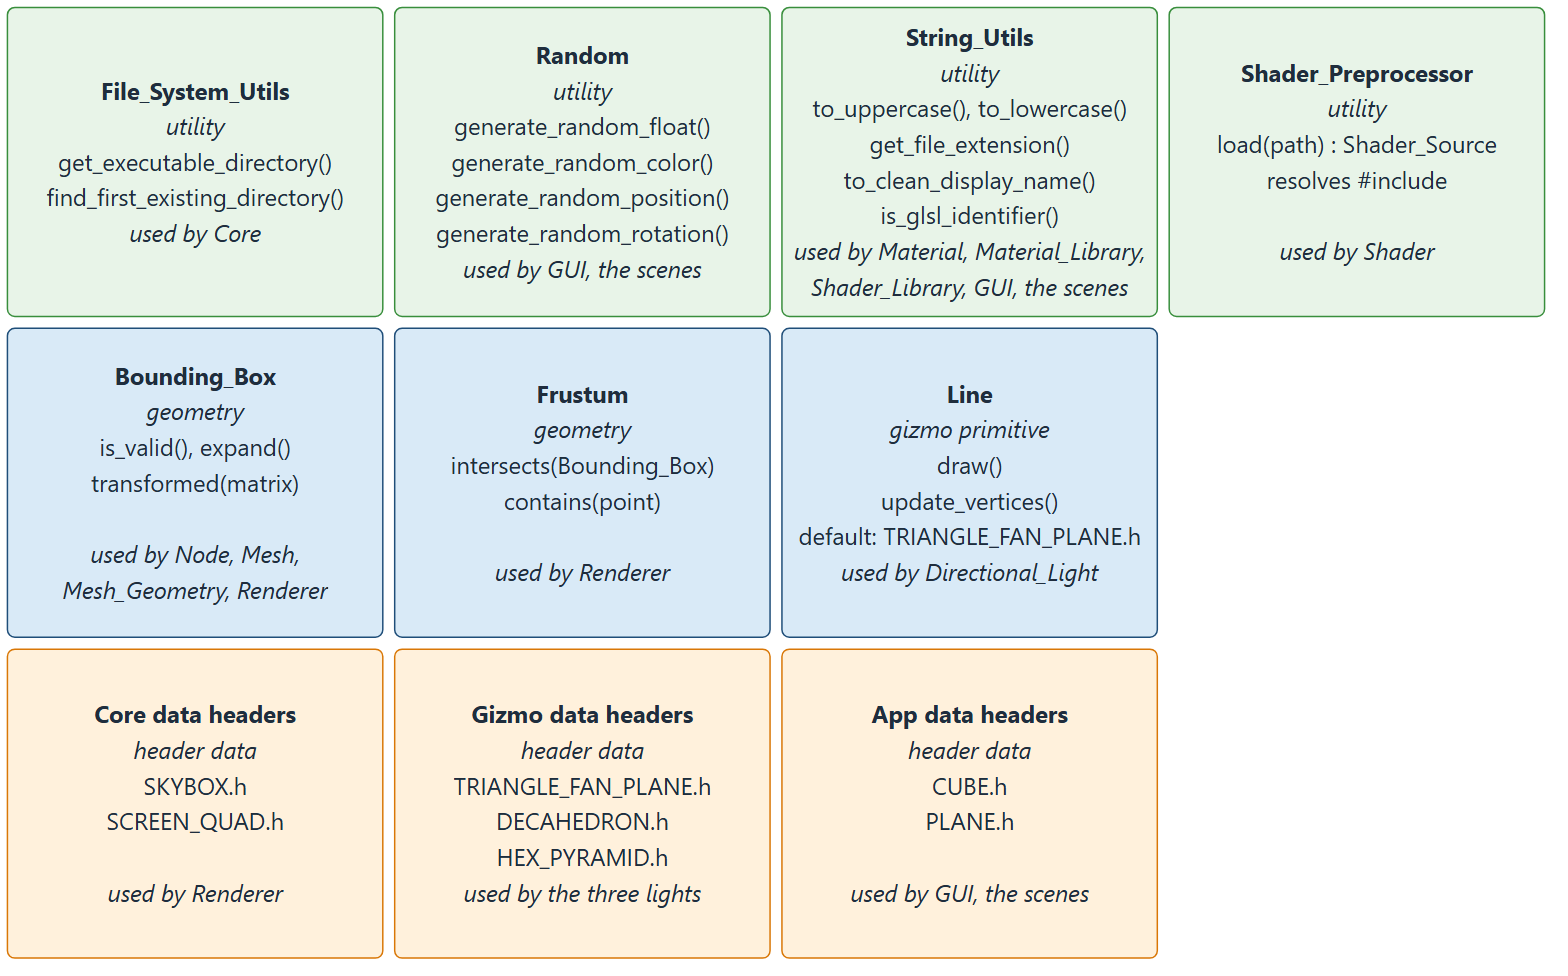
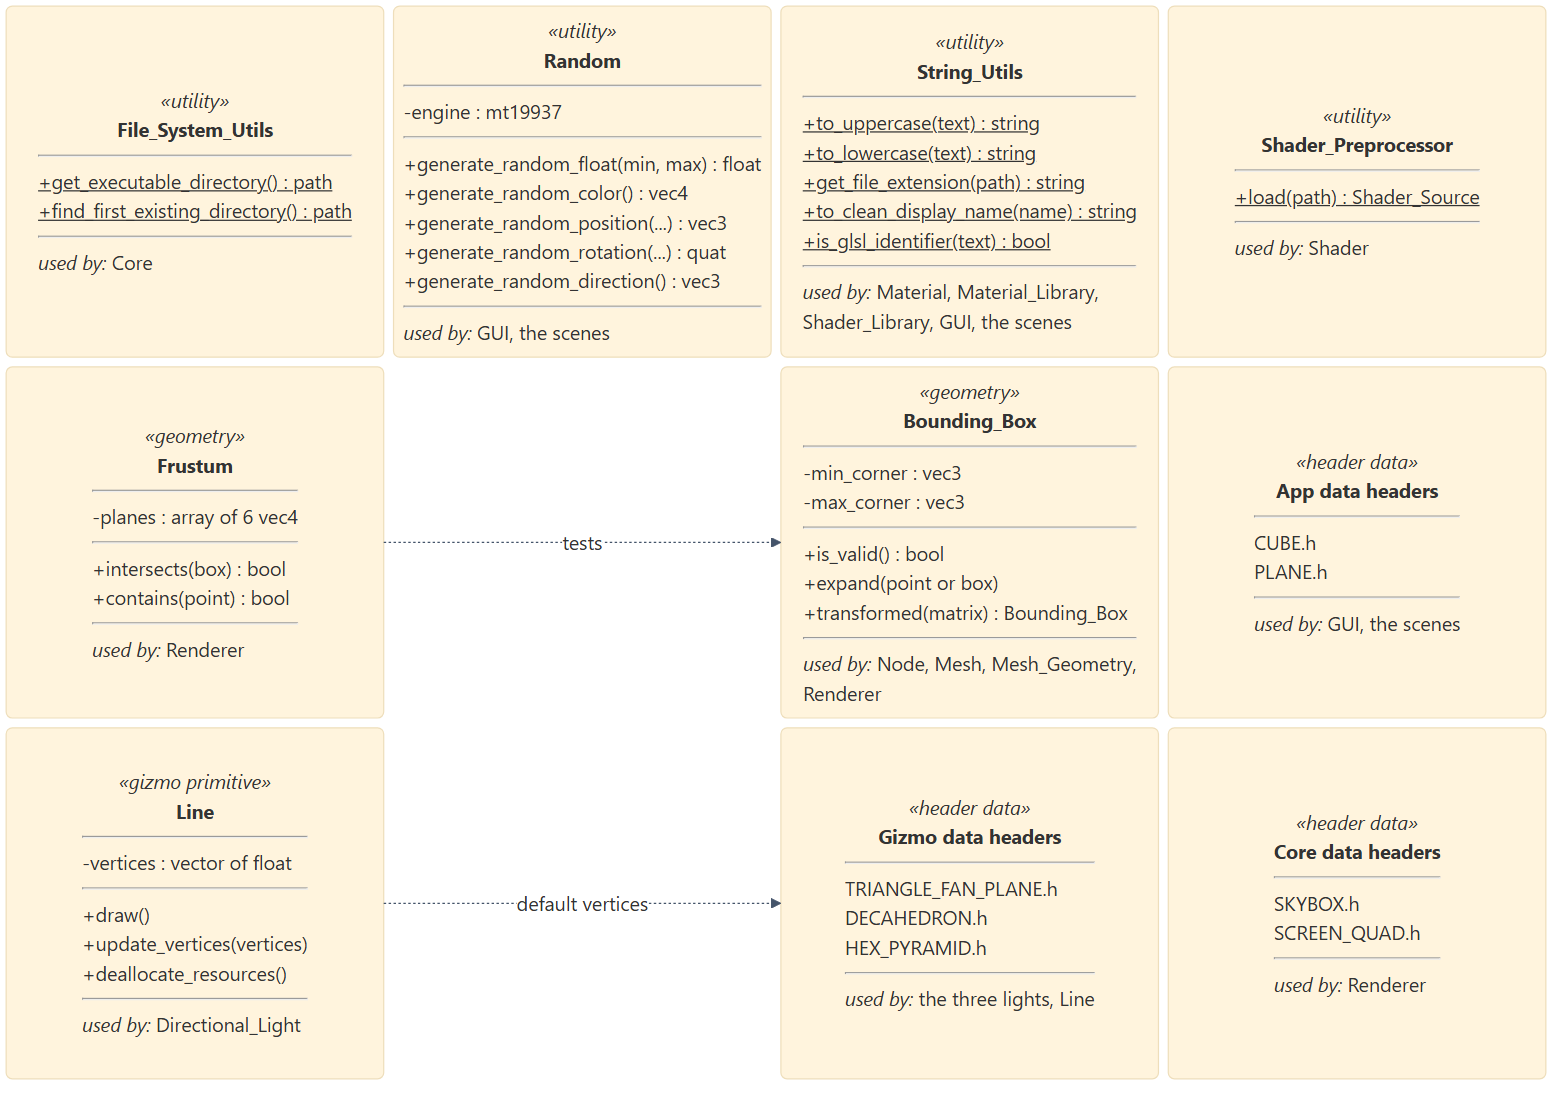
Draw the UML Overview and the Utilities Diagram in UML Notation
This update redraws the architecture overview and the utilities diagram as UML class diagrams, in the style of the other three diagrams of the set, because the grids of plain boxes that replaced them did not use the notation of the diagrams around them.

Summary:
- The overview and the utilities diagram were block diagrams of plain boxes, while the managers, the rendering and GUI, and the scene entities diagrams are UML class diagrams, so the set mixed two styles, and the overview had lost the stereotypes, the compartments, and the UML arrowheads of the image that it replaced.
- The guide of the diagrams said that the size of the image to replace is the reference, which was read as a reason to drop the notation.

Changes:
- Diagrams (Changed)
[…]

diff --git a/docs/diagrams/README.md b/docs/diagrams/README.md
@@ -14,15 +14,15 @@ The images are regenerated and reviewed whenever a release is about to come out,
 | Diagram | Source | Image | What it shows |
 |---|---|---|---|
 | The dependencies and packages | [dependencies/dependencies_and_packages.mmd](dependencies/dependencies_and_packages.mmd) | [dependencies/dependencies_and_packages.png](dependencies/dependencies_and_packages.png) | The three CMake targets (`Engine::Core`, `Engine::Platform`, and `App`) stacked in the middle, with the libraries that each one links on both sides of it (Core's in green, Platform's in orange); every arrow reads "links to" (the dotted one, to `nlohmann_json`, is private); each library says where it comes from (vcpkg or system, a system library, or bundled source) |
-| The architecture overview (the top of the UML set) | [uml/architecture_overview.mmd](uml/architecture_overview.mmd) | [uml/architecture_overview.png](uml/architecture_overview.png) | The three modules as ten boxes in a grid (App in blue, Platform in orange, Core in green; every box says its module), with who creates, owns, implements, reads, edits, and holds what; the four diagrams below detail its boxes |
+| The architecture overview (the top of the UML set) | [uml/architecture_overview.mmd](uml/architecture_overview.mmd) | [uml/architecture_overview.png](uml/architecture_overview.png) | A UML class diagram of the three modules: the blocks have stereotypes that start with their module (App, Platform, or Core), `Application` and `Core` show their operations, and the arrows are UML (composition, aggregation, generalization, realization, dependency) with a word on each; the blocks that group classes (the subsystems) are detailed by the four diagrams below |
 | The managers and libraries (detail of the overview) | [uml/managers_subsystem.mmd](uml/managers_subsystem.mmd) | [uml/managers_subsystem.png](uml/managers_subsystem.png) | The box "Managers, libraries": `Core` and the four managers (scene, node, selection, input) and the two libraries (shader, material) that it owns, with the members of each one and the classes that each one holds |
 | The renderer, the GUI, and the assets (detail of the overview) | [uml/rendering_and_gui_subsystem.mmd](uml/rendering_and_gui_subsystem.mmd) | [uml/rendering_and_gui_subsystem.png](uml/rendering_and_gui_subsystem.png) | The boxes `Renderer`, `GLFW_Renderer`, `GUI`, `Assets_Window`, and "Assets": the renderer and its implementation, the GUI layer, the render passes, and the asset registry and selection that the Assets window owns |
 | The scene entities (detail of the overview) | [uml/scene_entities_subsystem.mmd](uml/scene_entities_subsystem.mmd) | [uml/scene_entities_subsystem.png](uml/scene_entities_subsystem.png) | The box "Scene entities": `Node` and the classes that derive from it (models, lights, camera, texture, and shader), and the meshes, the shared geometry, and the material that a node refers to |
-| The utilities and the geometry data (detail of the overview) | [uml/utilities_and_geometry_data.mmd](uml/utilities_and_geometry_data.mmd) | [uml/utilities_and_geometry_data.png](uml/utilities_and_geometry_data.png) | The box "Utilities": ten cards (utilities, geometry classes, and the header data), each with its members and the classes that use it |
+| The utilities and the geometry data (detail of the overview) | [uml/utilities_and_geometry_data.mmd](uml/utilities_and_geometry_data.mmd) | [uml/utilities_and_geometry_data.png](uml/utilities_and_geometry_data.png) | The block "Utilities and Geometry Data": ten UML class blocks (utilities, geometry classes, and the header data), each with its attributes, its operations (static ones underlined), and a last compartment with the classes that use it, and the two dependencies between them as dotted arrows |
 
 The other images of the folder (the two rendering pipelines, the three performance charts, and the development chronogram) were made before the sources were kept, and have no `.mmd` yet. They are listed in [pending_sources.txt](pending_sources.txt), and each one leaves the list when its source is written.
 
-**The UML set is a hierarchy.** `uml/architecture_overview` is the top: it shows the modules and how they relate, and each of its boxes that groups classes has a detailed diagram: "Managers, libraries" is `uml/managers_subsystem`; `Renderer`, `GLFW_Renderer`, `GUI`, `Assets_Window`, and "Assets" are `uml/rendering_and_gui_subsystem`; "Scene entities" is `uml/scene_entities_subsystem`; and "Utilities" is `uml/utilities_and_geometry_data`. Each `.mmd` of the set says in its first lines which module it shows and which box of the overview it details.
+**The UML set is a hierarchy.** `uml/architecture_overview` is the top: it shows the modules and how they relate, and each of its boxes that groups classes has a detailed diagram: "Managers, libraries" is `uml/managers_subsystem`; `Renderer`, `GLFW_Renderer`, `GUI`, `Assets_Window`, and "Assets" are `uml/rendering_and_gui_subsystem`; "Scene entities" is `uml/scene_entities_subsystem`; and "Utilities and Geometry Data" is `uml/utilities_and_geometry_data`. Each `.mmd` of the set says in its first lines which module it shows and which block of the overview it details.
 
 ## Rendering
 
@@ -38,7 +38,7 @@ It runs this command for each `.mmd` (the version is written in the script, `MER
 npx --yes @mermaid-js/mermaid-cli@11.17.0 -i docs/diagrams/<subfolder>/<name>.mmd -o docs/diagrams/<subfolder>/<name>.png -b white -s 2
 ```
 
-The environment variable `DIAGRAMS_PUPPETEER_CONFIG` names a Puppeteer configuration file (to choose another browser or to pass flags), and `DIAGRAMS_MMDC` names an installed `mmdc` program to use instead of `npx`. The fonts and the colors are in the source of each `.mmd` (the `config:` block of its front matter and its `classDef` lines), and the position of every box is written in it, so that the source alone produces the image. The size of the text depends on the fonts of the browser, so two renders of the same source can differ slightly.
+The environment variable `DIAGRAMS_PUPPETEER_CONFIG` names a Puppeteer configuration file (to choose another browser or to pass flags), and `DIAGRAMS_MMDC` names an installed `mmdc` program to use instead of `npx`. The fonts and the colors are in the source of each `.mmd` (the `config:` block of its front matter and its `classDef` lines), and the position of every box is written in it, so that the source alone produces the image. The size of the text depends on the fonts of the browser, so two renders of the same source can differ in size and layout, not only by a few pixels (a render on another machine was 2400 by 1350 pixels where the committed one is 1568 by 882).
 
 **A render is committed only when it is more accurate or clearer than the image it replaces, and together with the `.mmd` that produced it.** Look at every image before committing it, and check it against the code. A render of a source that did not change, which only looks different, is discarded (`git restore` the image). A source that does not reproduce the committed image is first brought to its quality (a title, a theme, a legend that says what each color is), or the committed image is kept.
 
@@ -59,4 +59,6 @@ stops with an error when a `.png` has no `.mmd` and is not listed in `pending_so
 
 Choose the Mermaid diagram type for the layout that the diagram needs: a `flowchart` places the boxes by itself, and a `block-beta` diagram places every box in a grid that the source writes (the dependency diagram uses it: the targets are stacked in the middle and each one has its libraries beside it, never more than one row away, so that no arrow crosses a box and the image stays compact). Arrows go straight between the centers of two boxes, so keep a box off the line between two others. A block diagram has no `linkStyle`, so the kind of an arrow is written as the text on it.
 
-**Class diagrams** (`classDiagram`) are laid out with the ELK engine (`layout: elk` in the front matter), which draws orthogonal arrows around the boxes instead of through them; `class: useMaxWidth: false` keeps the natural size. The image is the diagram scaled to the width of the browser window of the tool (about 784 px, times the scale 2), so a diagram whose natural width is larger than that gets smaller text: read the natural size from the `viewBox` of the SVG (`mmdc -i name.mmd -o name.svg`) and keep it under about 1600 px, which gives text of about 1% of the width of the image, the size of the images that the UML set replaced. When the layout of a class diagram grows too tall or too wide, remove the members that do not explain the diagram, give a box at least one member so that it has no empty compartment, and try `direction LR` against `direction TB`. A catalogue of classes that are not related to each other (like `utilities_and_geometry_data`) is a block diagram of cards, because the automatic layouts stack unrelated boxes in one tall column.
+**Class diagrams** (`classDiagram`) are laid out with the ELK engine (`layout: elk` in the front matter), which draws orthogonal arrows around the boxes instead of through them; `class: useMaxWidth: false` keeps the natural size. The image is the diagram scaled to the width of the browser window of the tool (about 784 px, times the scale 2), so a diagram whose natural width is larger than that gets smaller text: read the natural size from the `viewBox` of the SVG (`mmdc -i name.mmd -o name.svg`) and keep it under about 1600 px, which gives text of about 1% of the width of the image, the size of the images that the UML set replaced. When the layout of a class diagram grows too tall or too wide, remove the members that do not explain the diagram, give a box at least one member so that it has no empty compartment, and try `direction LR` against `direction TB`. A catalogue of classes that are not related to each other (like `utilities_and_geometry_data`) cannot be laid out as a class diagram, because the automatic layouts put unrelated classes in one row or one column: draw it as a block diagram whose blocks imitate the class compartments (see below).
+
+**UML diagrams use UML class blocks and keep one style** (decided 2026-11-09): every diagram of `uml/` draws its classes, interfaces, and subsystems as class blocks (the stereotype and the name, then the attributes and the operations, with the arrowheads of UML), with the fonts, the colors, and the stereotypes of the others, and plain boxes (`block-beta`, flowcharts) are for the diagrams that are not UML (the dependencies, the pipelines, and the charts). Legibility and correctness come first, and the size of the image that is replaced is a reference, never a reason to drop the notation or the information. When a class diagram cannot be laid out legibly by the tool, as for a catalogue of unrelated classes, a block diagram can draw the blocks with the compartments of a class: each block is a label of HTML with `<br/>`, `<hr/>` between the compartments, `<div align='left'>` for the members, `&laquo;` and `&raquo;` for the stereotype (the source stays in ASCII), `<u>` for static members, and the fill `#fff4dd` and the border `#eedebb` of the class blocks of Mermaid; its relations that are real are drawn as dotted arrows with a free cell between the blocks they join.

diff --git a/CHANGELOG.md b/CHANGELOG.md
@@ -37,6 +37,7 @@ The format is based on [Keep a Changelog](https://keepachangelog.com/en/1.1.0/),
 
 ### Changed
 
+- The architecture overview and the utilities diagram (`docs/diagrams/uml/`) are UML class diagrams again, in the style of the other three: the overview has stereotyped class blocks (each with its module), the operations of `Application` and `Core`, and UML arrowheads, and the utilities diagram has one class block for each utility, geometry class, and header of data, with its attributes and operations. The diagrams guide says that the diagrams of `uml/` keep UML class blocks in one style.
 - Every console message starts with `[TYPE::CLASS_NAME::function_name]`, with the three parts always present (`TYPE` is `ERROR`, `WARNING`, `INFO`, or `SUCCESS`; `CLASS_NAME` is the class in capitals with underscores, or the name of the file for a function that is not in a class; `function_name` is the function that prints the message). 99 tags were corrected (two of them in commented-out lines): class names written without their underscores (`[ERROR::INPUTMANAGER::key_callback]` is now `[ERROR::INPUT_MANAGER::key_callback]`, and the same for `NODE_MANAGER`, `SCENE_MANAGER`, `SELECTION_MANAGER`, `ASSIMP_MODEL`, `RENDER_PASS`, and `GLFW_RENDERER`), messages without a function name (`ASSETS_WINDOW`, `GUI`, and `main`), the lowercase `main` of the functions of `main.cpp` and of the scenes (now `MAIN`, `EXAMPLE_SCENE`, `REFLECTION_SCENES`, and `STRESS_SCENES`), function names that were not the function that prints (`SHADER::compile` in `check_compilation_linking_errors`, and `GLFW_RENDERER::init_gui` in `init`), and a message of `Node_Manager` and one of the `Renderer` destructor that had no tag or no type.
 - The five UML diagrams (`docs/diagrams/uml/`) are redrawn from their Mermaid sources, read from the code: an architecture overview (the modules App, Platform, and Core as boxes in a grid, with who creates, owns, implements, reads, edits, and holds what) above four detailed diagrams of its boxes (the managers and libraries; the renderer, the GUI, and the assets; the scene entities; and the utilities and the geometry data). They show what the old images did not: the platform module (`GLFW_Renderer`, `Gui_Layer`), the shader and material libraries, the asset registry and selection with the Assets window, and the meshes with their shared geometry. The guide of the diagrams lists the hierarchy and says how to lay out a class diagram.
 - The dependencies and packages diagram of the architecture guide shows `nlohmann_json` (a private dependency of Core, as a dotted arrow), says which libraries are packages of vcpkg or of the system, which are system libraries, and which are bundled source, writes "links to" on every arrow, and is rendered from its Mermaid source, which now has the layout, the colors, and the legend (the committed image was not the render of its source).

diff --git a/docs/architecture.md b/docs/architecture.md
@@ -107,7 +107,7 @@ Next, each phase is described step-by-step.
 The following UML diagrams (Figs. 4-8) detail the package layout, class hierarchies, and subsystem relationships. Fig. 4 is the overview (the modules and how they relate), and Figs. 5-8 detail its boxes: the renderer, the GUI, and the assets (Fig. 5), the managers and libraries (Fig. 6), the scene entities (Fig. 7), and the utilities and the geometry data (Fig. 8).
 
 <div style="display:flex; justify-content:center; align-items:center; flex-wrap:wrap; gap:20px;"> 
-<img src="diagrams/uml/architecture_overview.png" alt="architecture_overview" title="Architecture Overview" style="height:360px; width:auto;" />
+<img src="diagrams/uml/architecture_overview.png" alt="architecture_overview" title="Architecture Overview" style="height:600px; width:auto;" />
 </div>
 <p><i>Fig 4. Architecture Overview</i></p>
 
